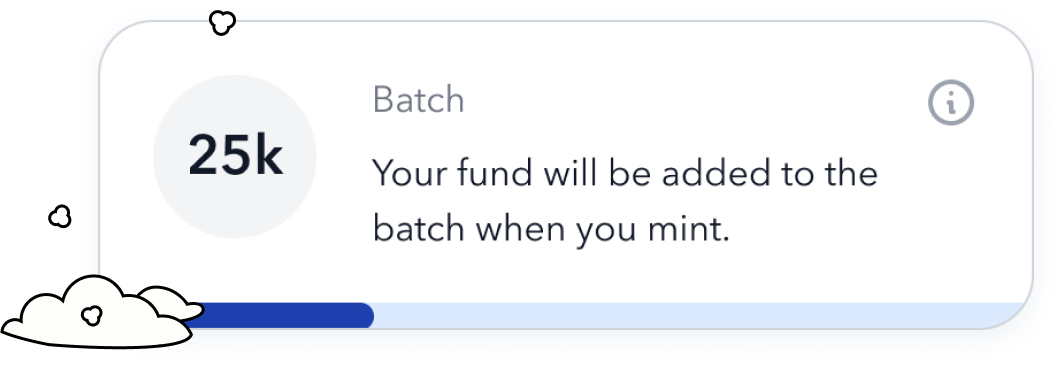
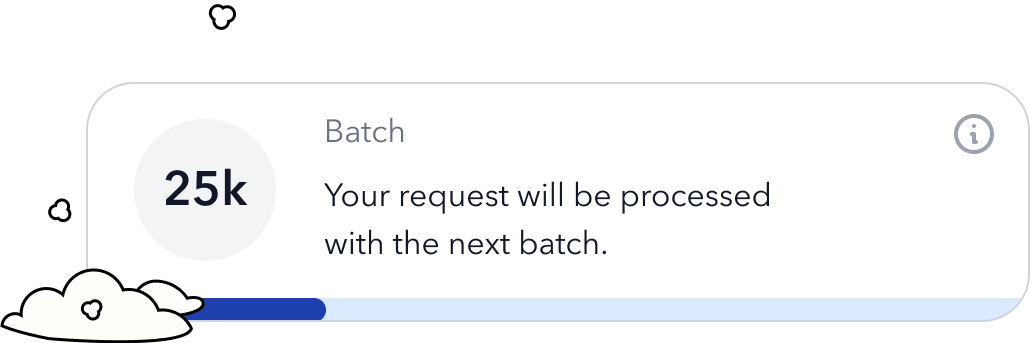
Feature/approve button butter (#205)
* butter UI changes, new logic for displaying approve button and slight UI change on staking

* border width added to tailwind

* styling update,fixed heights for approve buttons + approve logic fixed

* approx gas calculations made for mint/redeem

* deposit gas fees now incorporated

* changed gas estimate to a number

* approve button butter, fixed heights for mint/redeem interface

* show approve button when allowance = 0

diff --git a/packages/app/components/BatchButter/StatInfoCard.tsx b/packages/app/components/BatchButter/StatInfoCard.tsx
@@ -17,9 +17,9 @@ export default function StatInfoCard({
   info,
 }: StatInfoCardProps): JSX.Element {
   return (
-    <div className="flex flex-col justify-center bg-white h-full rounded-3xl border border-gray-200 shadow-custom w-full px-6 pt-8 smlaptop:pt-5 pb-8 smlaptop:pb-5">
+    <div className="bg-white rounded-3xl border border-gray-200 shadow-custom w-full px-6 pt-8 smlaptop:pt-5 pb-10 smlaptop:pb-8">
       <div className="flex flex-row items-center justify-between mt-0.5">
-        <div className="flex h-16 flex-row">
+        <div className="flex flex-row">
           <CardIcon
             icon={icon.icon}
             color={icon.color}
@@ -29,7 +29,7 @@ export default function StatInfoCard({
             <p className="font-light text-gray-500 text-base leading-none uppercase mt-1">
               {title}
             </p>
-            <h3 className="text-3xl font-medium text-gray-900 mt-2 pt-1">
+            <h3 className="text-3xl font-semibold text-gray-900 mt-2">
               {content}
             </h3>
           </div>

diff --git a/packages/app/components/BatchButter/MintRedeemInterface.tsx b/packages/app/components/BatchButter/MintRedeemInterface.tsx
@@ -1,4 +1,4 @@
-import { BigNumber } from "ethers";
+import { BigNumber, ethers } from "ethers";
 import { Dispatch } from "react";
 import { BatchType } from "../../../hardhat/lib/adapters";
 import MainActionButton from "../MainActionButton";
@@ -62,7 +62,7 @@ const MintRedeemInterface: React.FC<MintRedeemInterfaceProps> = ({
         </div>
       )}
       <div className="w-full text-center">
-        {depositAmount.gt(selectedToken.input.allowance) ? (
+        {depositAmount.gt(selectedToken.input.allowance) || selectedToken.input.allowance.eq(ethers.constants.Zero) ? (
           <div className="space-y-4">
             <MainActionButton
               label={`Allow Popcorn to use your ${selectedToken.input.name}`}
